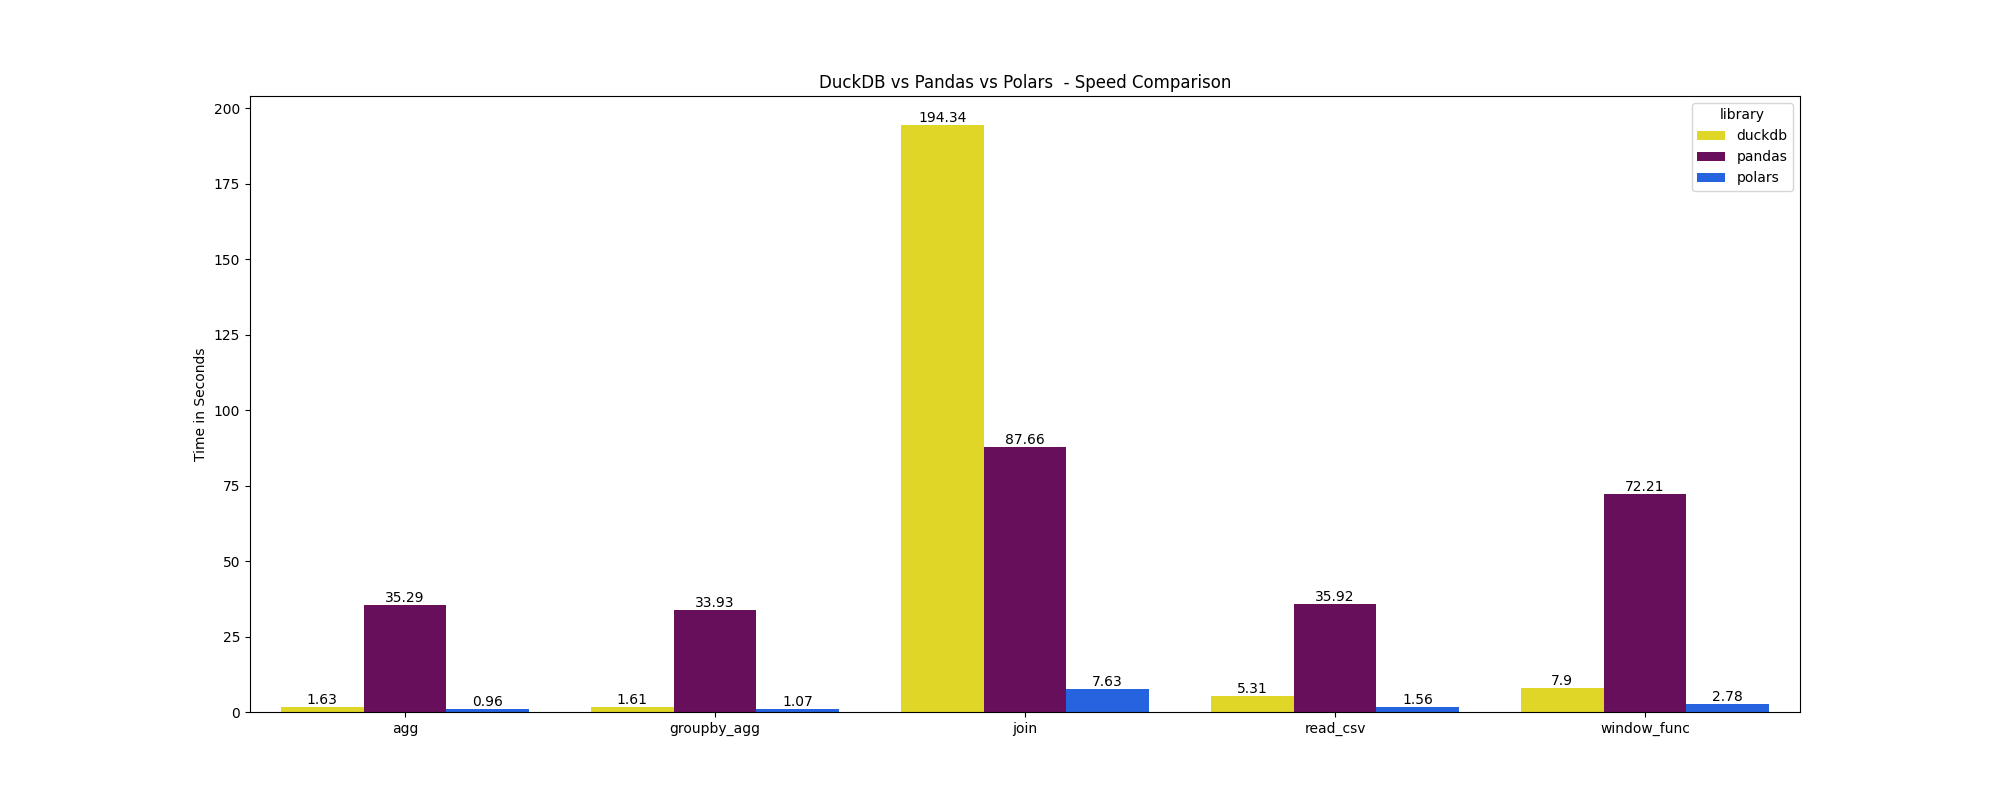
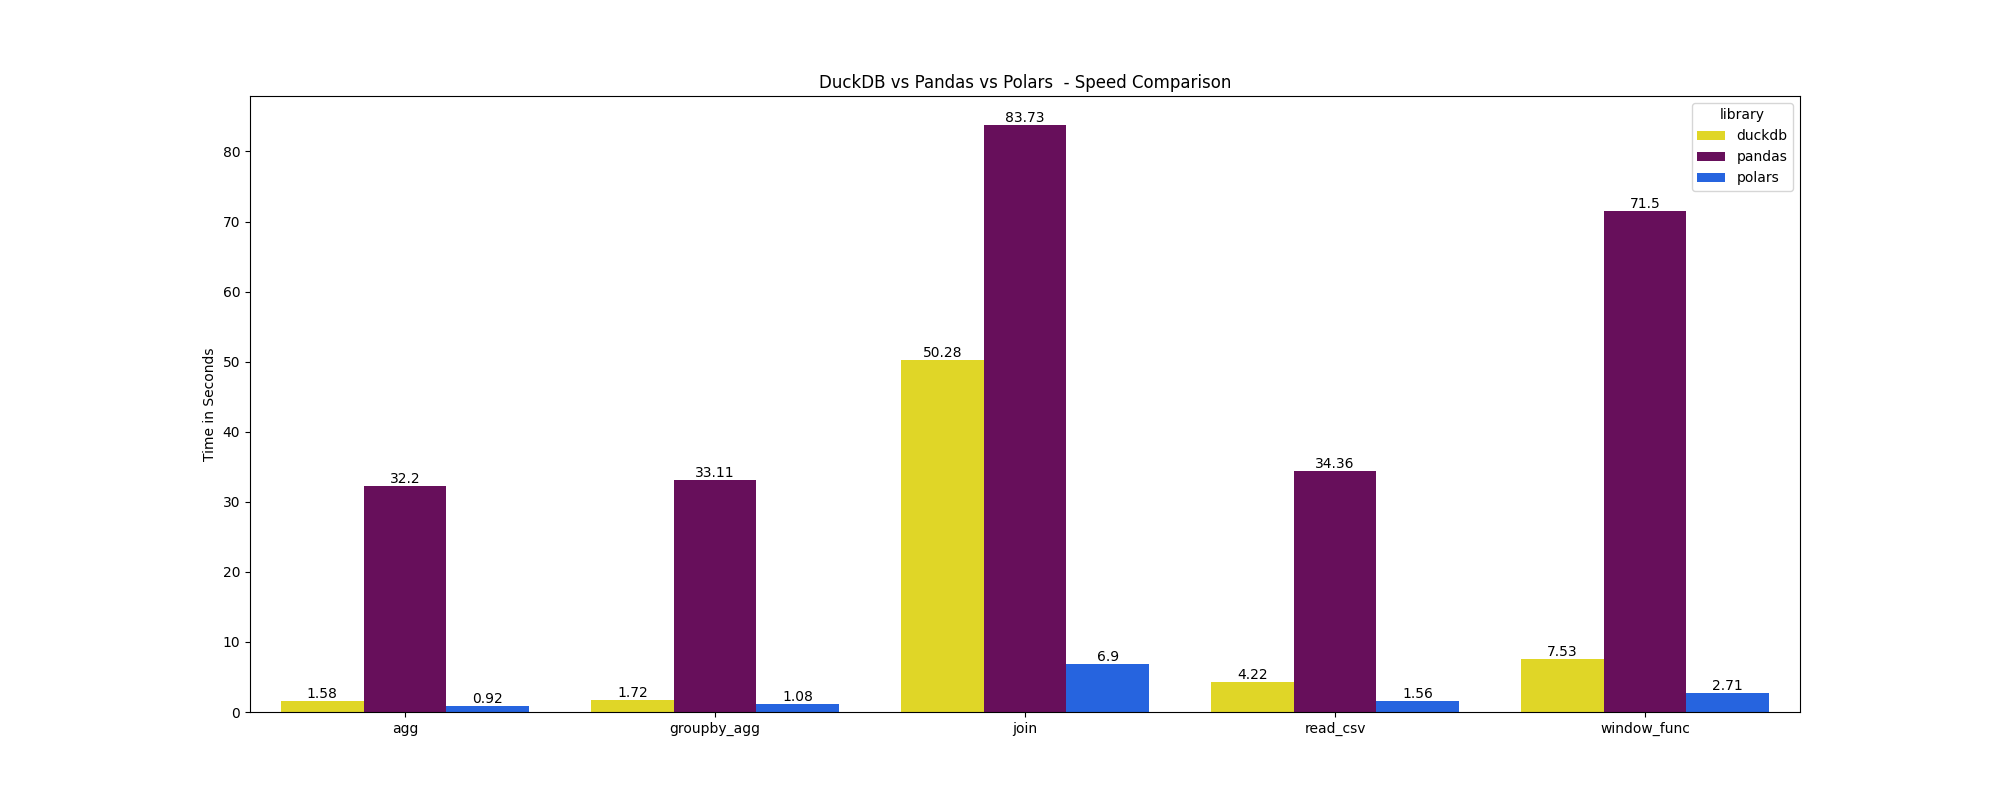
Re-run banchmark with updated polars and duckdb

diff --git a/duckdb_vs_polars/join_modin.py b/duckdb_vs_polars/join_modin.py
@@ -1,0 +1,20 @@
+import os
+
+os.environ["MODIN_ENGINE"] = "dask"
+
+import modin.pandas as pd
+
+def join_modin(file_path):
+	base_df = pd.read_csv(file_path)
+	base_df['pickup_month'] = pd.to_datetime(base_df['tpep_pickup_datetime'] \
+	, format='%m/%d/%Y %I:%M:%S %p').dt.month
+
+	join_df = base_df.groupby(['VendorID', 'payment_type', 'pickup_month']) \
+	.agg({'total_amount': 'sum'})
+
+	return base_df.merge(join_df,
+	on=['VendorID', 'payment_type', 'pickup_month'],
+	how='inner')
+
+if __name__ == '__main__':
+    print(join_modin('data/2021_Yellow_Taxi_Trip_Data.csv'))

diff --git a/duckdb_vs_polars/window_func_modin.py b/duckdb_vs_polars/window_func_modin.py
@@ -1,0 +1,19 @@
+import os
+
+os.environ["MODIN_ENGINE"] = "dask"
+
+import modin.pandas as pd
+
+def window_func_modin(file_path):
+	df = pd.read_csv(file_path)
+
+	df_window = pd.DataFrame()
+	
+	df_window['avg_fare_per_vendor'] = df.groupby('VendorID')['fare_amount'].transform('mean')
+	df_window['ttl_amt_rank_per_pay_type'] = df.groupby('payment_type')['total_amount'] \
+	.rank(method='dense', ascending=False)
+	
+	return df_window
+
+if __name__ == '__main__':
+    print(window_func_modin('data/2021_Yellow_Taxi_Trip_Data.csv'))

diff --git a/duckdb_vs_polars/__main__.py b/duckdb_vs_polars/__main__.py
@@ -8,7 +8,12 @@ def main():
     outputs = []
     this_dir = pathlib.Path(__file__).parent
 
-    for benchmark in sorted(this_dir.glob('*[duckdb|polars|pandas].py')):
+    exts = ['*duckdb.py', '*polars.py', '*pandas.py']
+    libs = []
+    for ext in exts:
+        libs.extend(this_dir.glob(ext))
+
+    for benchmark in sorted(libs):
         module_name = func_name = benchmark.with_suffix('').name
         module = importlib.import_module(module_name)
         benchmark_function = getattr(module, func_name)

diff --git a/duckdb_vs_polars/groupby_agg_modin.py b/duckdb_vs_polars/groupby_agg_modin.py
@@ -1,0 +1,13 @@
+import os
+
+os.environ["MODIN_ENGINE"] = "dask"
+
+import modin.pandas as pd
+
+def groupby_agg_modin(file_path):
+	df = pd.read_csv(file_path)
+	return df.groupby(['VendorID', 'payment_type']) \
+	.agg({'total_amount': ['sum', 'mean', 'min', 'max']})
+
+if __name__ == '__main__':
+    print(groupby_agg_modin('data/2021_Yellow_Taxi_Trip_Data.csv'))

diff --git a/duckdb_vs_polars/agg_modin.py b/duckdb_vs_polars/agg_modin.py
@@ -1,0 +1,12 @@
+import os
+
+os.environ["MODIN_ENGINE"] = "dask"
+
+import modin.pandas as pd
+
+def agg_modin(file_path):
+	df = pd.read_csv(file_path)
+	return df.agg({'total_amount': ['sum', 'mean', 'min', 'max']})
+
+if __name__ == '__main__':
+    print(agg_modin('data/2021_Yellow_Taxi_Trip_Data.csv'))

diff --git a/duckdb_vs_polars/visualize_output.py b/duckdb_vs_polars/visualize_output.py
@@ -13,7 +13,7 @@ def visualize_output(data):
         y='time in seconds', 
         hue='library', 
         errorbar=None, 
-        palette=['#FFF208', '#760066', '#075AFE']
+        palette=['#FFF208', '#760066', '#075AFE', '#C49E85']
     )
     
     for container in ax.containers:

diff --git a/duckdb_vs_polars/read_csv_modin.py b/duckdb_vs_polars/read_csv_modin.py
@@ -1,0 +1,12 @@
+import os
+
+os.environ["MODIN_ENGINE"] = "dask"
+
+import modin.pandas as pd
+
+def read_csv_modin(file_path):
+	df = pd.read_csv(file_path)
+	return df
+
+if __name__ == '__main__':
+    print(read_csv_modin('data/2021_Yellow_Taxi_Trip_Data.csv'))
